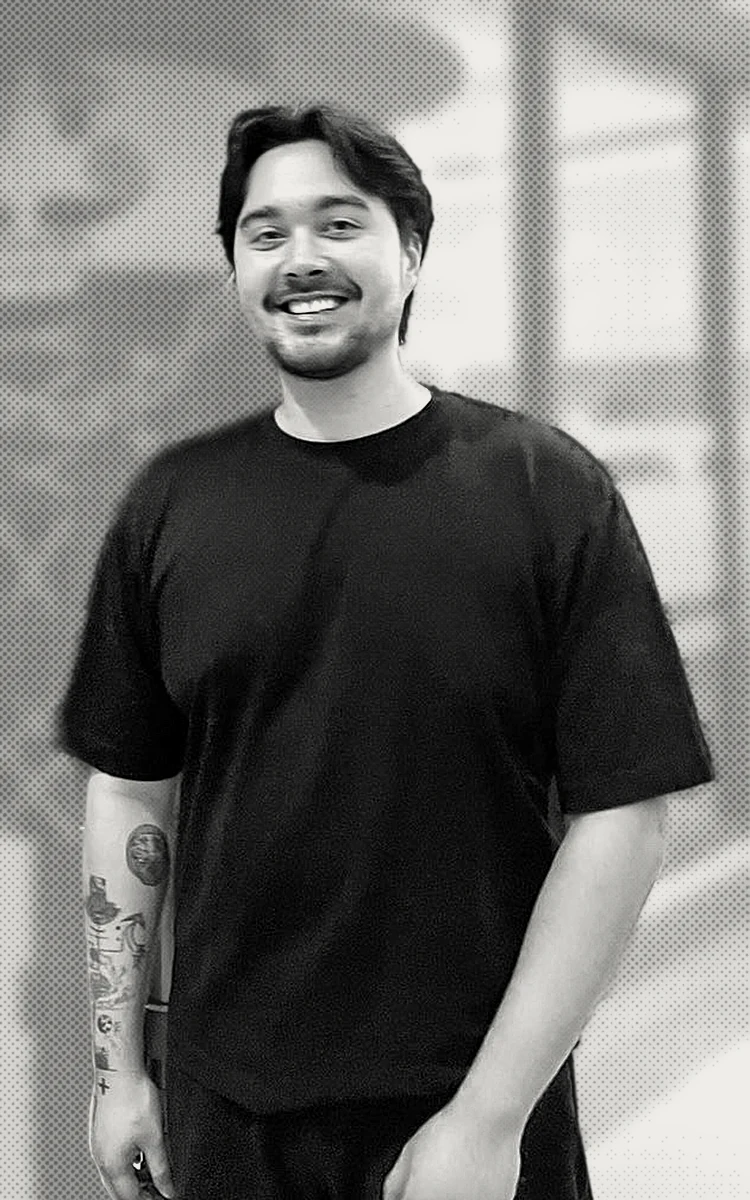
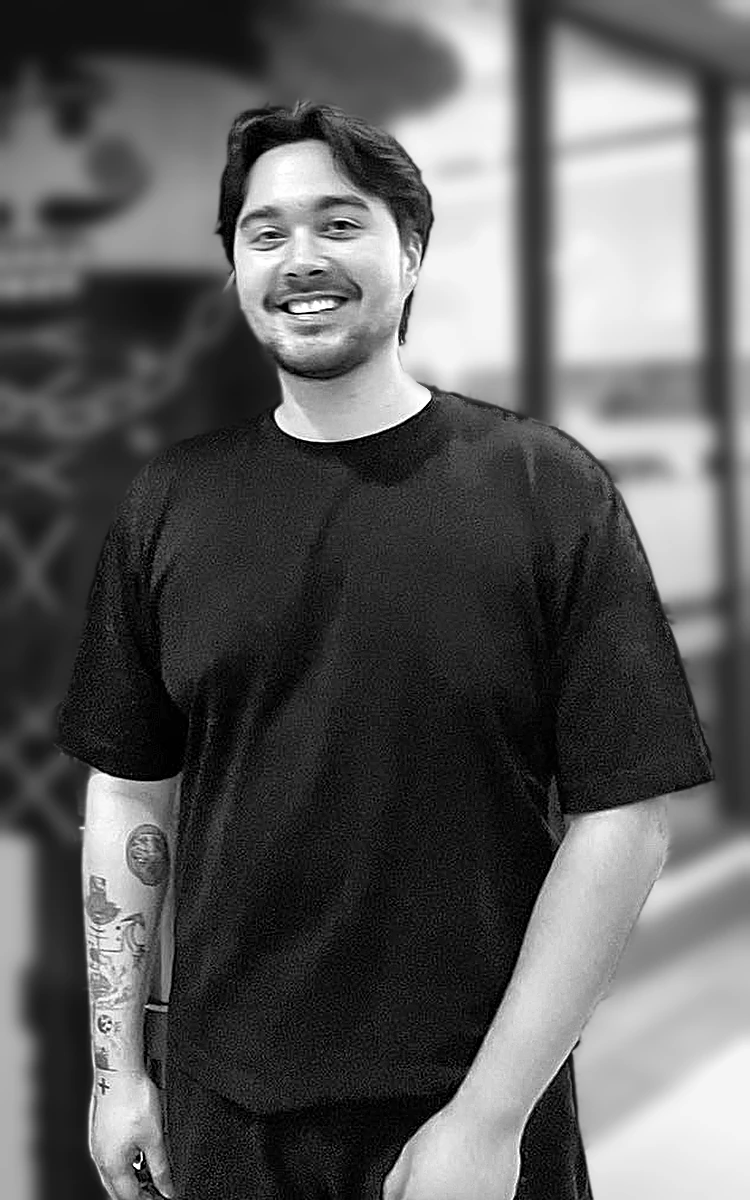
Portrait: plain black and white with a portrait-mode background

diff --git a/css/home.css b/css/home.css
@@ -208,7 +208,7 @@
   border: var(--panel-border) solid var(--rule);
   background: radial-gradient(var(--tone) 1.1px, transparent 1.4px) 0 0 / 7px 7px, var(--paper-2);
 }
-/* The portrait is a real photo in black and white, with a light screentone behind, like the rest of the volume */
+/* A real photo in black and white, background softened like a phone portrait mode */
 .author .portrait img { width: 100%; height: 100%; object-fit: cover; object-position: 50% 0; }
 .author-bubble {
   position: absolute; right: -1.5rem; bottom: -1.2rem; max-width: 15rem; padding: 0.8rem 1.1rem;
